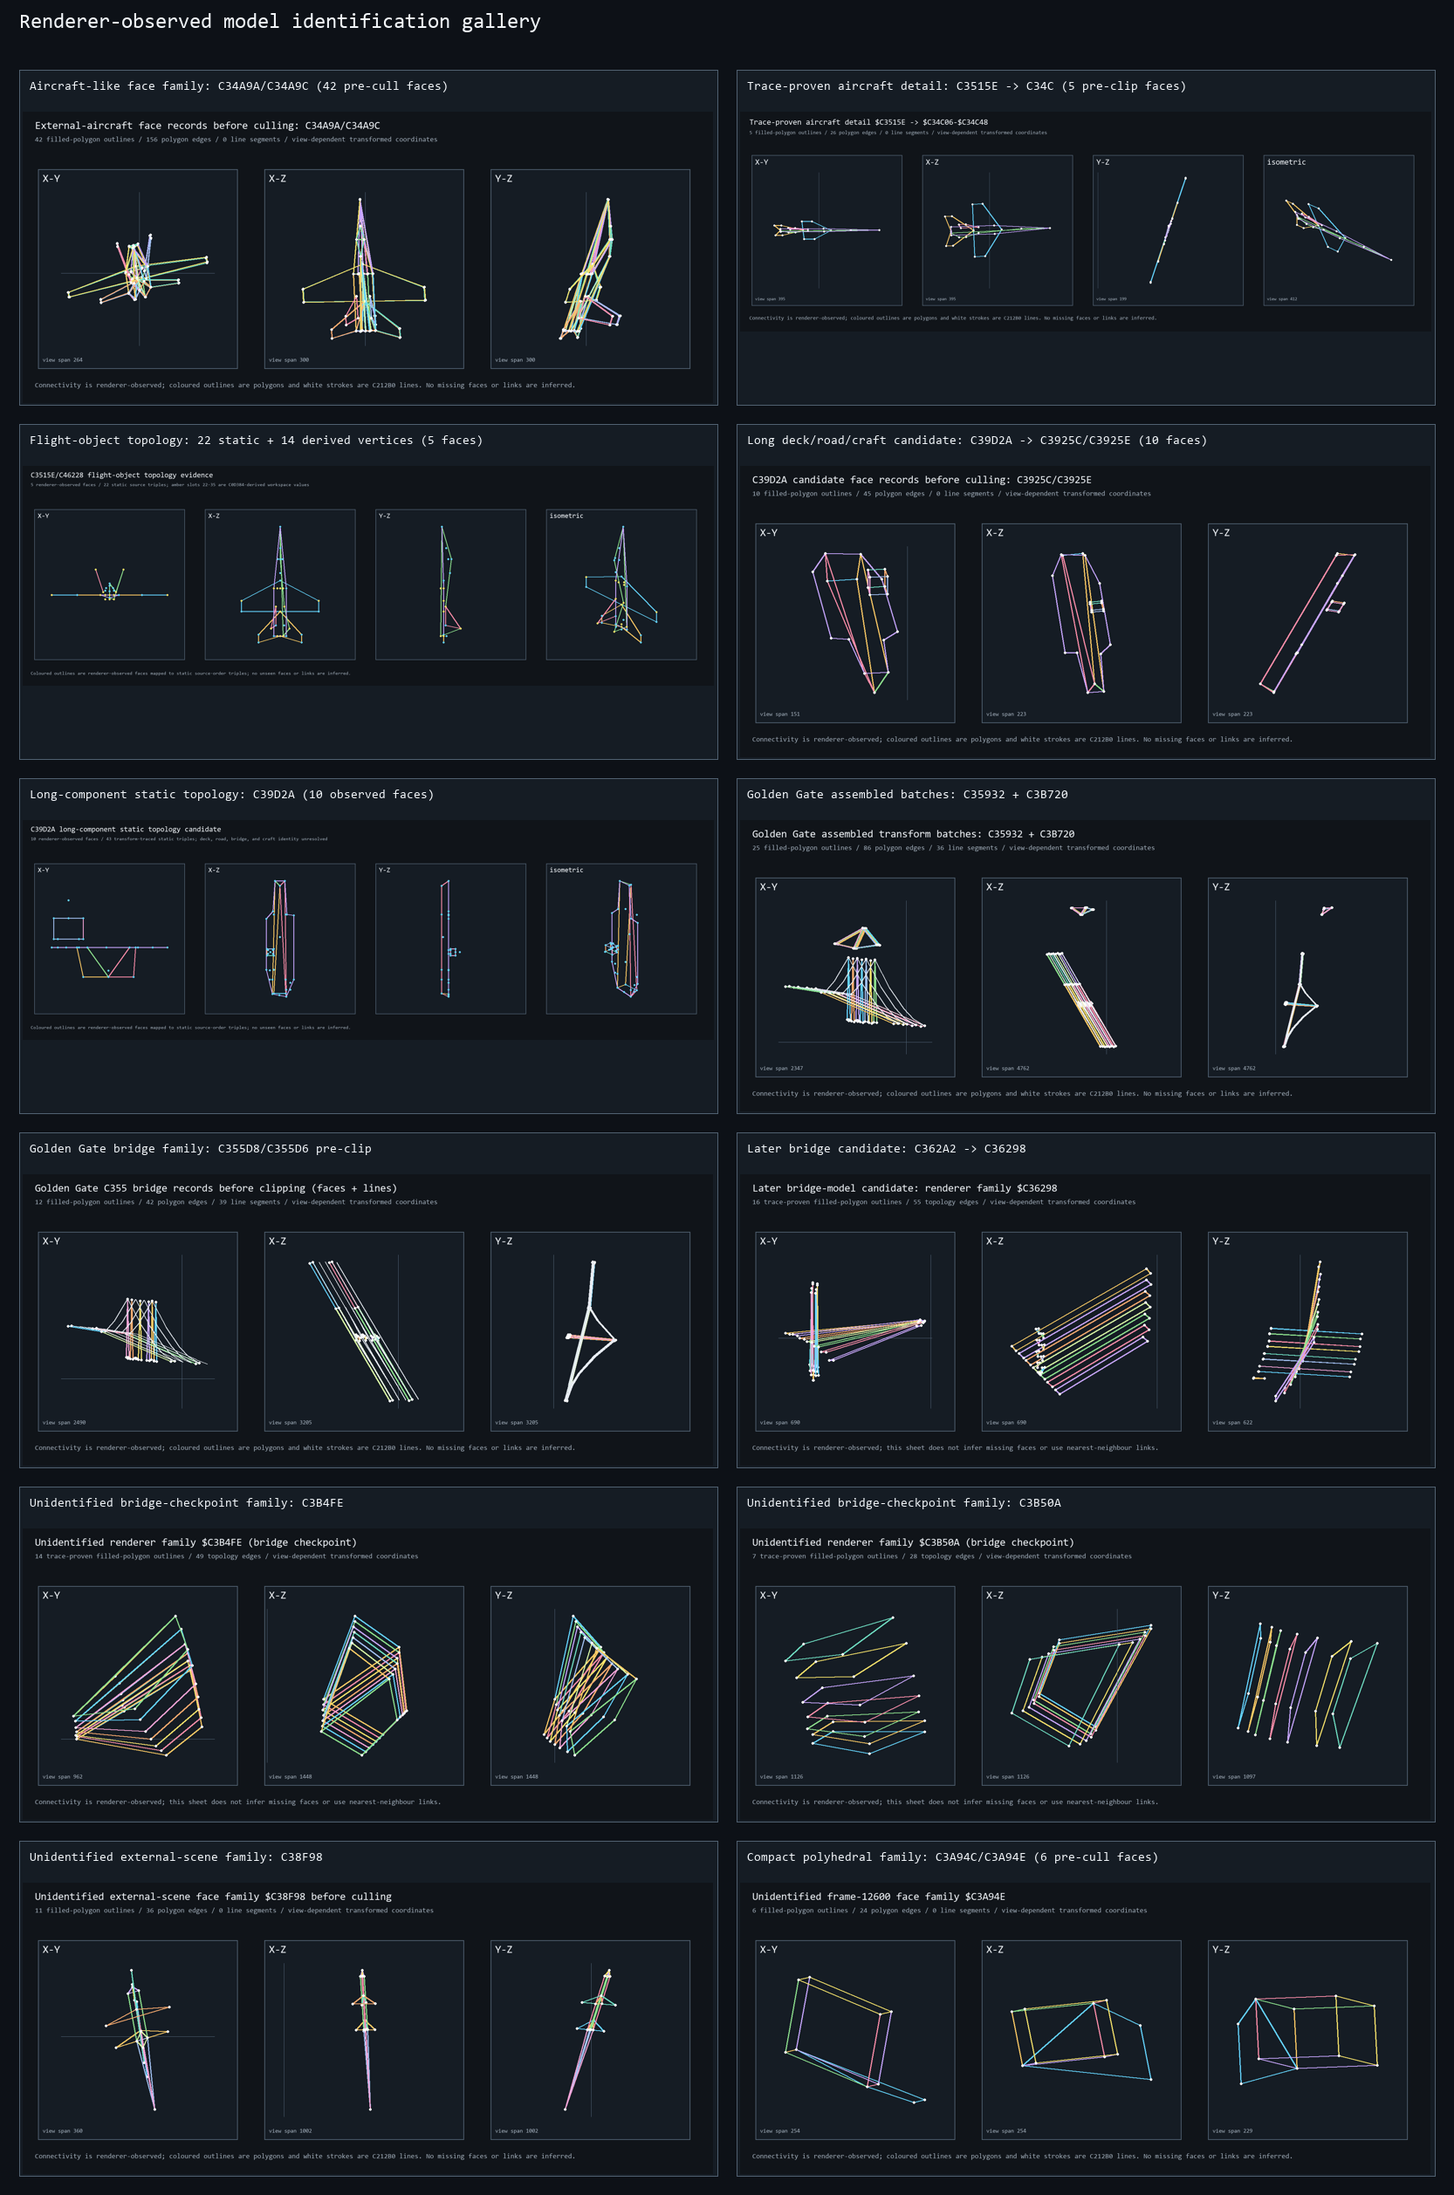
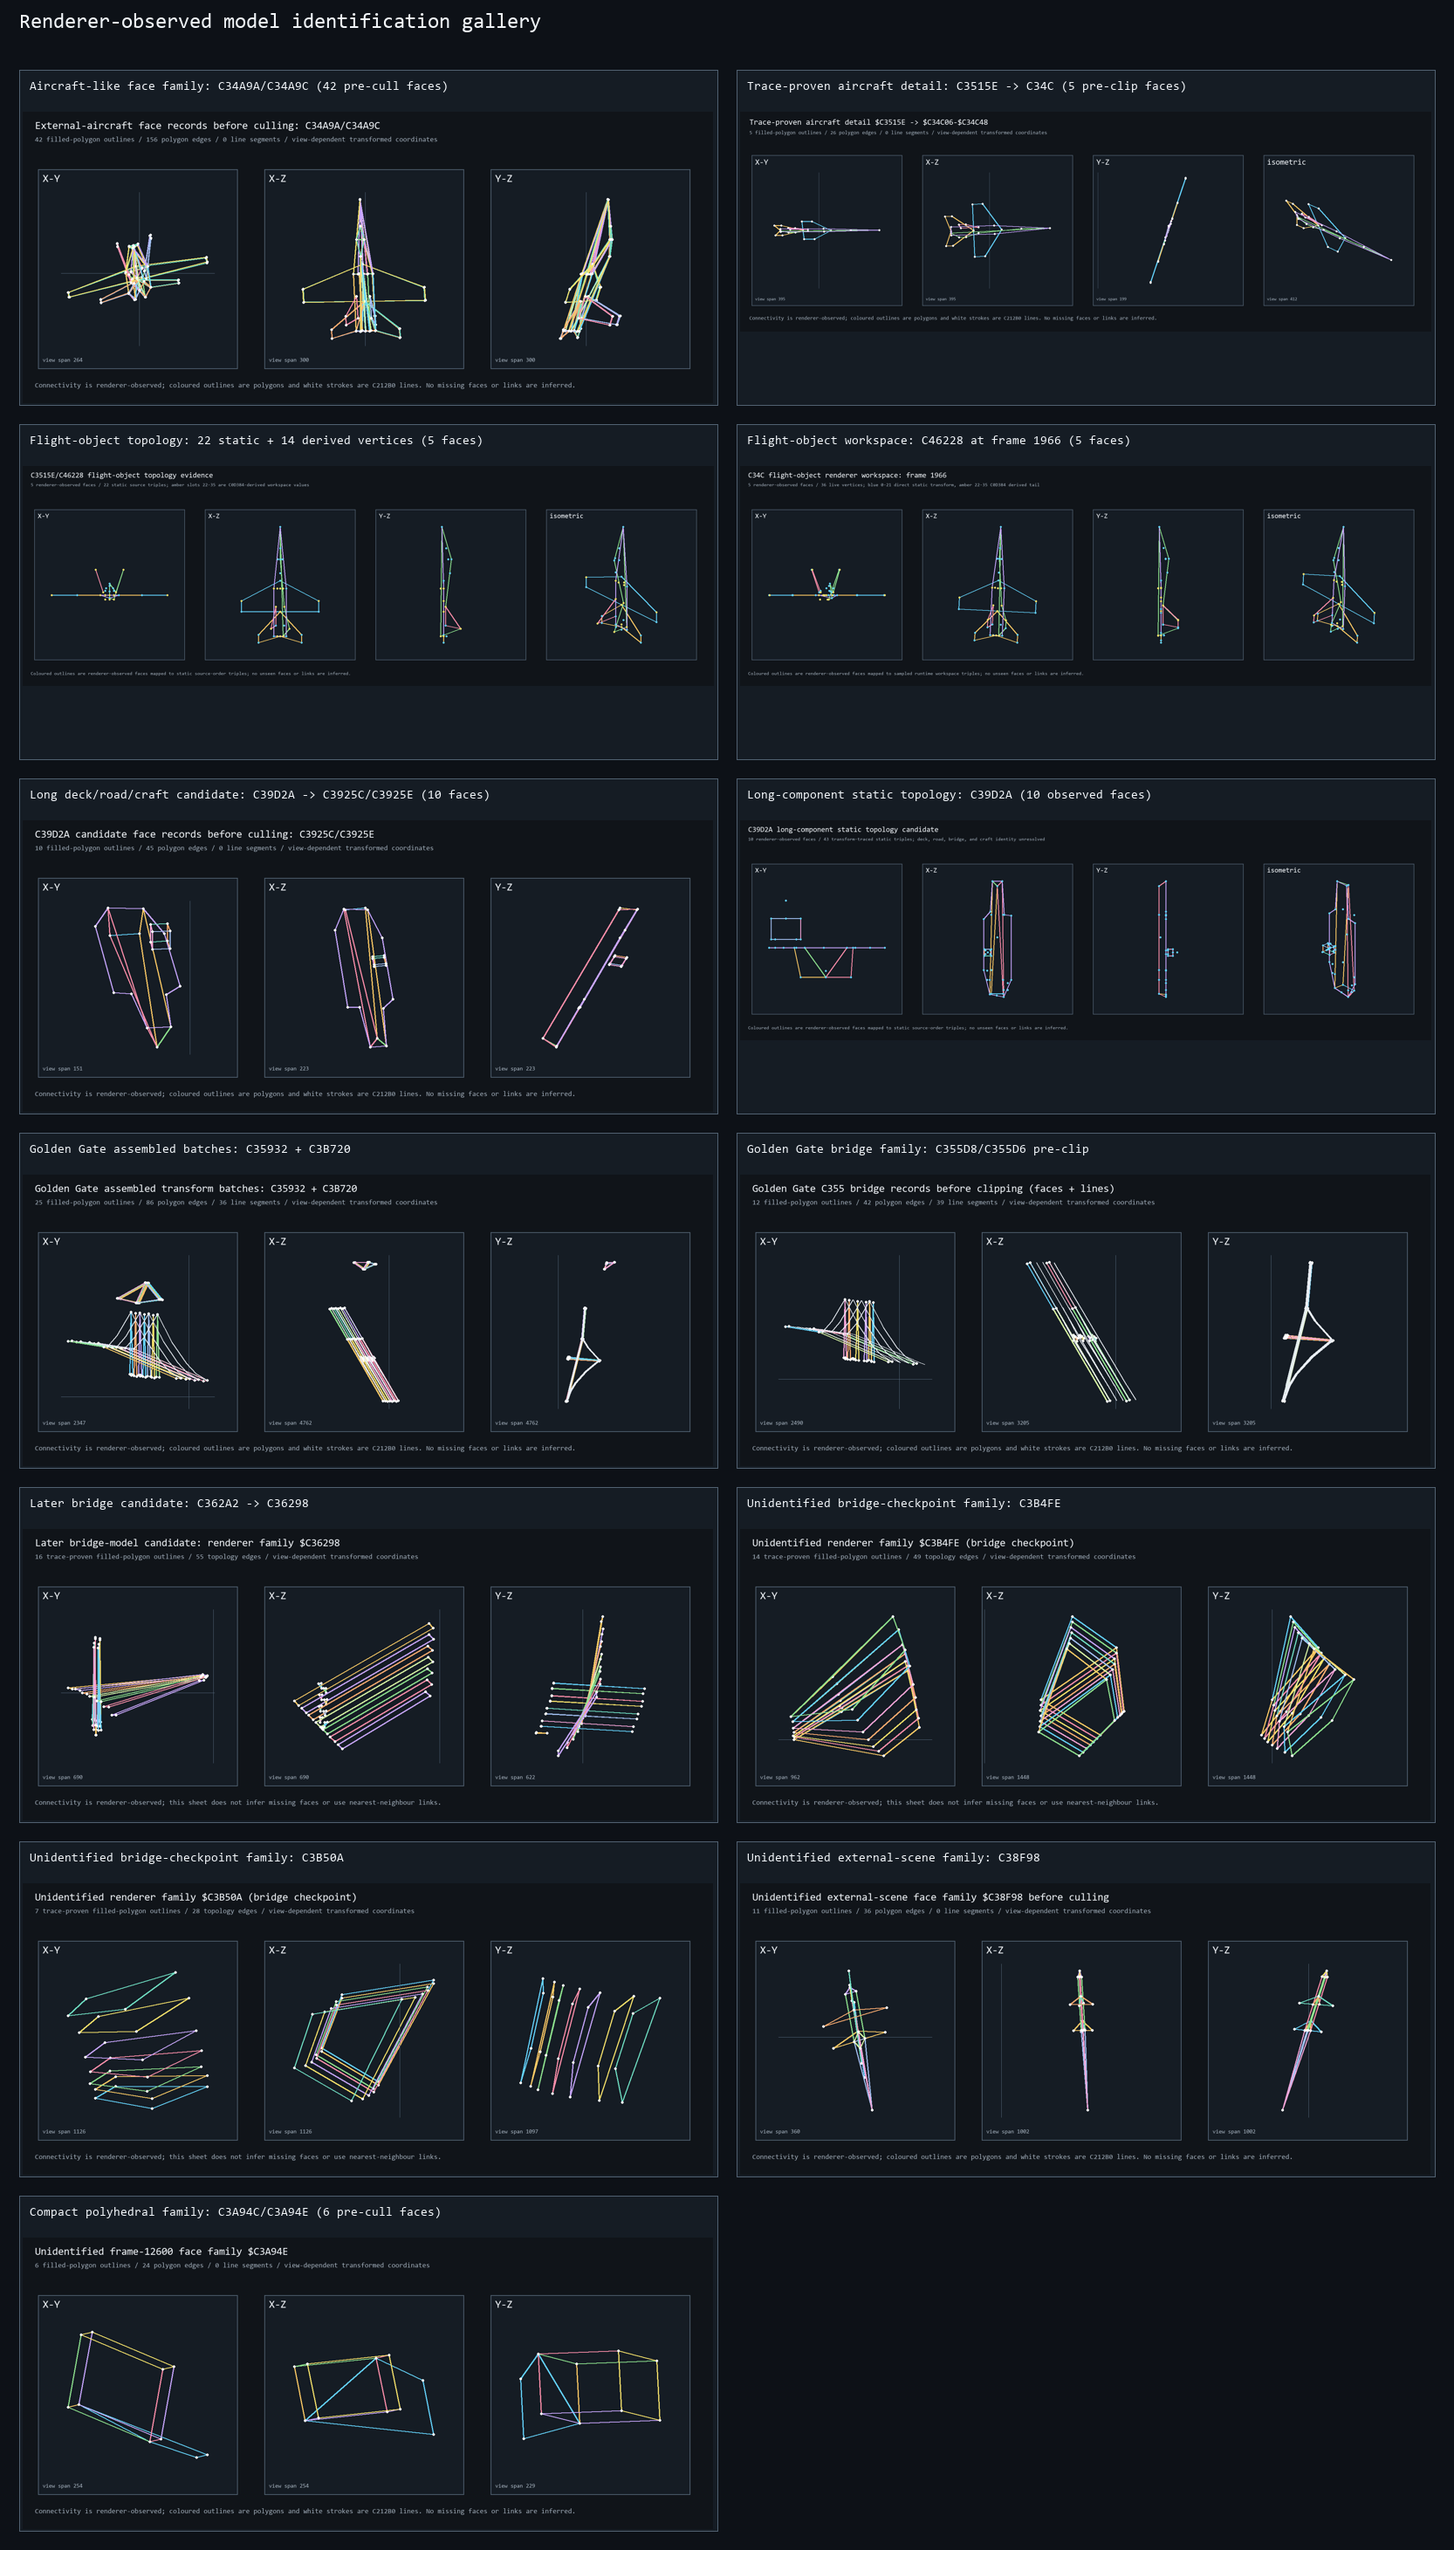
Plot complete C34C renderer workspace

diff --git a/scripts/render_static_topology_sheet.py b/scripts/render_static_topology_sheet.py
@@ -22,6 +22,10 @@ def main() -> None:
     parser.add_argument("--title", required=True)
     parser.add_argument("--subtitle", required=True)
     parser.add_argument("--output", type=Path, required=True)
+    parser.add_argument("--sampled-words", type=Path,
+                        help="sample_replay_memory JSON supplying displayed output triples")
+    parser.add_argument("--sampled-start", type=lambda text: int(text, 0),
+                        help="first sampled triple address; required with --sampled-words")
     parser.add_argument("--overwrite", action="store_true",
                         help="replace an existing explicitly named output")
     parser.add_argument("--traced-last", type=int,
@@ -29,14 +33,25 @@ def main() -> None:
     args = parser.parse_args()
     args.topology = args.topology.resolve()
     args.output = args.output.resolve()
+    if (args.sampled_words is None) != (args.sampled_start is None):
+        parser.error("--sampled-words and --sampled-start must be supplied together")
     if args.output.exists() and not args.overwrite:
         raise FileExistsError(args.output)
     topology = json.loads(args.topology.read_text(encoding="utf-8"))
     source = topology["vertex_source"]
     start, count = int(source["start"][1:], 16), source["count"]
-    memory = MEMORY.read_bytes()
-    points = [tuple(int.from_bytes(memory[start - 0xC00000 + index * 6 + axis * 2:start - 0xC00000 + index * 6 + axis * 2 + 2], "big", signed=True)
-                    for axis in range(3)) for index in range(count)]
+    if args.sampled_words is None:
+        memory = MEMORY.read_bytes()
+        points = [tuple(int.from_bytes(memory[start - 0xC00000 + index * 6 + axis * 2:start - 0xC00000 + index * 6 + axis * 2 + 2], "big", signed=True)
+                        for axis in range(3)) for index in range(count)]
+    else:
+        report = json.loads(args.sampled_words.read_text(encoding="utf-8"))
+        words = report["records"][-1]["words"]
+        def sampled_word(address: int) -> int:
+            value = words[f"{address:06x}"]
+            return value - 0x10000 if value >= 0x8000 else value
+        points = [tuple(sampled_word(args.sampled_start + index * 6 + axis * 2)
+                        for axis in range(3)) for index in range(count)]
     views = (("X-Y", lambda point: (point[0], point[1])), ("X-Z", lambda point: (point[0], point[2])),
              ("Y-Z", lambda point: (point[1], point[2])), ("isometric", lambda point: (point[0] - point[1], point[2] - (point[0] + point[1]) / 2)))
     image = Image.new("RGB", (2390, 760), "#101419")
@@ -63,7 +78,10 @@ def main() -> None:
             x, y = position(point)
             colour = "#65d5ff" if args.traced_last is None or index <= args.traced_last else "#f7e36b"
             draw.ellipse((x - 3, y - 3, x + 3, y + 3), fill=colour)
-    draw.text((28, 710), "Coloured outlines are renderer-observed faces mapped to static source-order triples; no unseen faces or links are inferred.", font=font(16), fill="#aab7c4")
+    footer = ("Coloured outlines are renderer-observed faces mapped to sampled runtime workspace triples; no unseen faces or links are inferred."
+              if args.sampled_words is not None else
+              "Coloured outlines are renderer-observed faces mapped to static source-order triples; no unseen faces or links are inferred.")
+    draw.text((28, 710), footer, font=font(16), fill="#aab7c4")
     args.output.parent.mkdir(exist_ok=True)
     image.save(args.output)
     print(f"wrote {args.output.relative_to(ROOT)} ({count} vertices, {len(topology['faces'])} faces)")

diff --git a/scripts/sample_replay_memory.py b/scripts/sample_replay_memory.py
@@ -16,9 +16,13 @@ def main():
     parser.add_argument('--restore', type=Path, required=True)
     parser.add_argument('--playback', type=Path, required=True)
     parser.add_argument('--frames', type=int, required=True)
-    parser.add_argument('--word', action='append', required=True,
+    parser.add_argument('--word', action='append',
                         type=lambda text: int(text, 0),
                         help='Runtime word address; may be repeated.')
+    parser.add_argument('--word-range', action='append', nargs=2,
+                        metavar=('START', 'END'), default=[],
+                        type=lambda text: int(text, 0),
+                        help='Inclusive even-address word interval; may be repeated.')
     parser.add_argument('--input-kind', default='J',
                         help='Only sample frames containing this recording event kind.')
     parser.add_argument('--sample-every', type=int,
@@ -30,6 +34,14 @@ def main():
     parser.add_argument('--output', type=Path, required=True)
     parser.add_argument('--config', type=Path, default=ROOT / 'local/fa18.uae')
     args = parser.parse_args()
+    words = list(args.word or [])
+    for start, end in args.word_range:
+        if end < start or start % 2 or end % 2:
+            raise ValueError('Word ranges must be ordered even addresses')
+        words.extend(range(start, end + 1, 2))
+    words = list(dict.fromkeys(words))
+    if not words:
+        raise ValueError('At least one --word or --word-range is required')
     if args.frames < 1:
         raise ValueError('--frames must be positive')
     if args.sample_every is not None and args.sample_every < 1:
@@ -60,7 +72,7 @@ def main():
             records.append({
                 'frame': frame,
                 'events': matching,
-                'words': {f'{address:06x}': read_word(engine, address) for address in args.word},
+                'words': {f'{address:06x}': read_word(engine, address) for address in words},
                 'pc_after_frame': f'{engine.regs()["pc"]:06x}',
             })
 
@@ -71,7 +83,7 @@ def main():
         'input_kind': args.input_kind,
         'periodic_interval': ([args.sample_first, sample_last, args.sample_every]
                               if args.sample_every is not None else None),
-        'word_addresses': [f'{address:06x}' for address in args.word],
+        'word_addresses': [f'{address:06x}' for address in words],
         'records': records,
     }
     args.output.write_text(json.dumps(report, indent=2) + '\n', encoding='utf-8')

diff --git a/scripts/render_model_identification_gallery.py b/scripts/render_model_identification_gallery.py
@@ -17,6 +17,8 @@ ITEMS = (
      "c3515e_c34c_aircraft_detail_isometric_sheet.png"),
     ("Flight-object topology: 22 static + 14 derived vertices (5 faces)",
      "c351_c34c_static_topology_candidate.png"),
+    ("Flight-object workspace: C46228 at frame 1966 (5 faces)",
+     "c351_c34c_workspace_topology_frame1966.png"),
     ("Long deck/road/craft candidate: C39D2A -> C3925C/C3925E (10 faces)",
      "c39d2a_c3925_preclip_complete_face_sheet.png"),
     ("Long-component static topology: C39D2A (10 observed faces)",

diff --git a/analysis/data/c34c_aircraft_detail_face_family.md b/analysis/data/c34c_aircraft_detail_face_family.md
@@ -8,6 +8,8 @@
 
 [Open the static-coordinate topology PNG sheet](../plots/c351_c34c_static_topology_candidate.png).
 
+[Open the complete frame-1966 renderer-workspace topology sheet](../plots/c351_c34c_workspace_topology_frame1966.png).
+
 At the Golden Gate checkpoint, five distinct records in this range reach the
 pre-clip polygon routine through `$C203C4`. They contain 26 total polygon
 edges and are rendered with `$C45BEA` as the active transform/display context.
